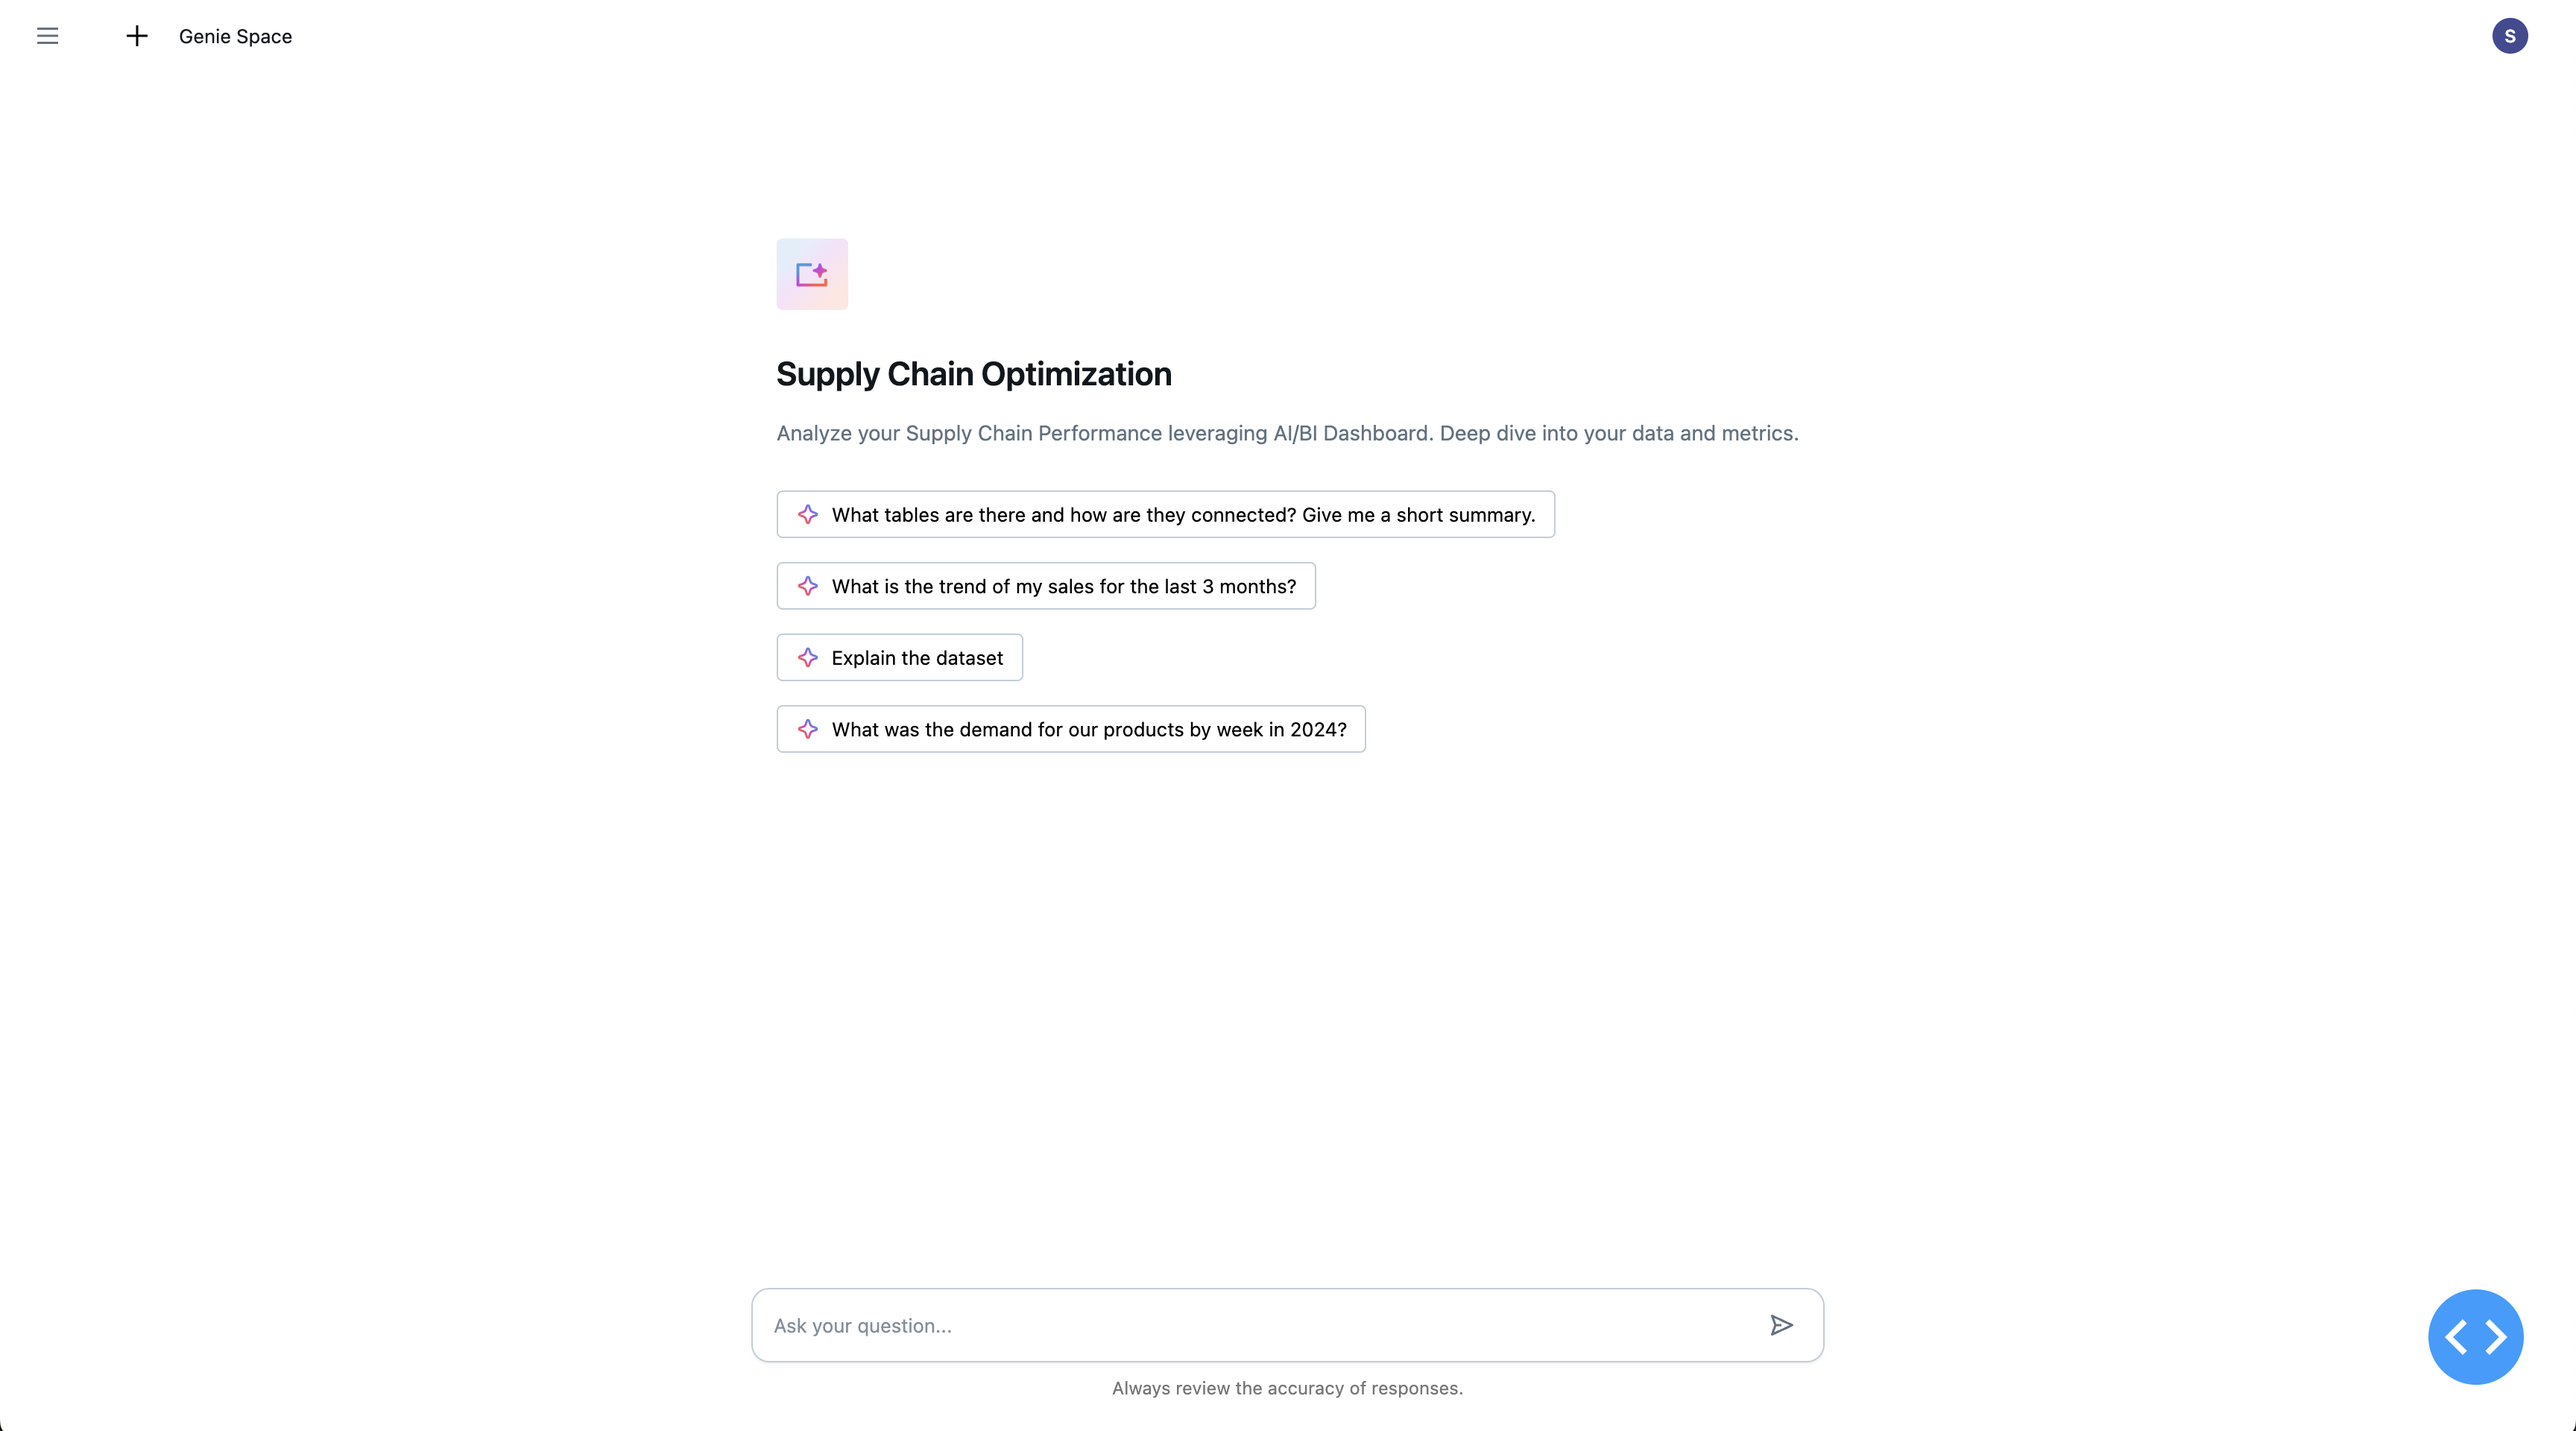
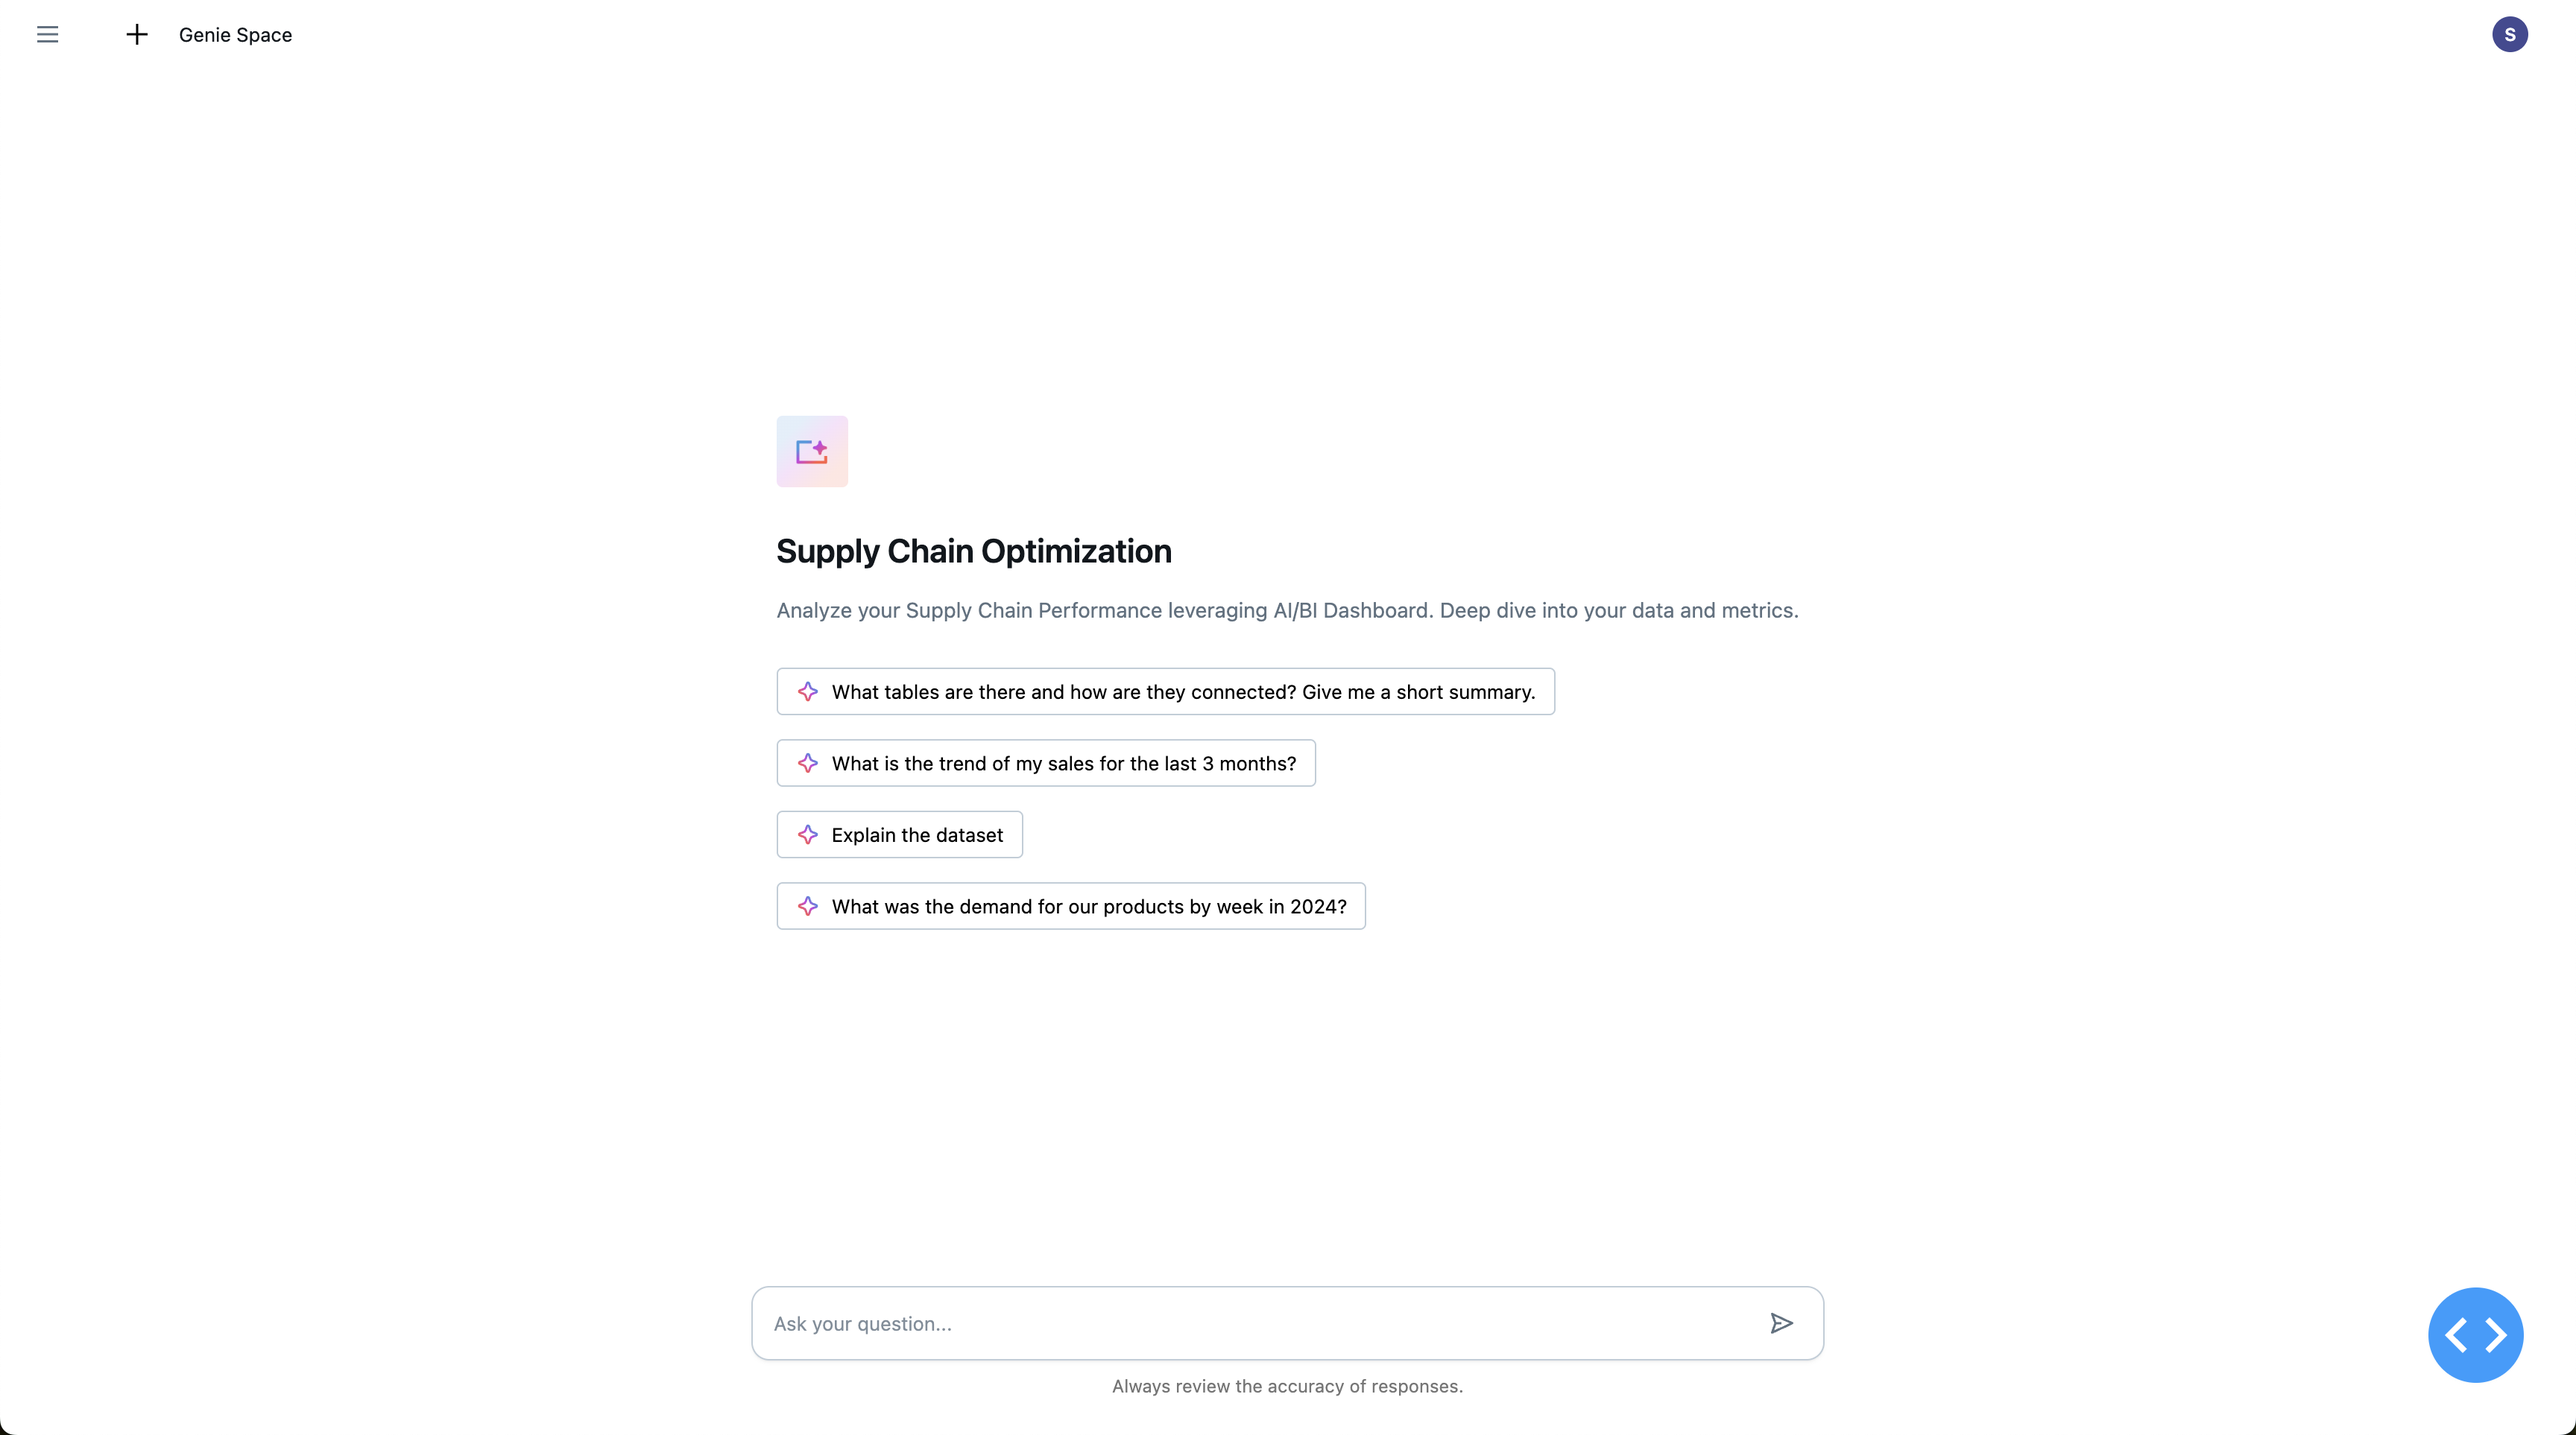
update

diff --git a/assets/style.css b/assets/style.css
@@ -264,7 +264,7 @@ body {
 .welcome-container {
     max-width: 800px;
     margin: 0 auto;
-    padding-top: 80px;
+    padding-top: 200px;
     display: flex;
     flex-direction: column;
     align-items: flex-start;

diff --git a/app.py b/app.py
@@ -4,10 +4,6 @@ import dash_bootstrap_components as dbc
 import json
 from genie_room import genie_query
 import pandas as pd
-import plotly.express as px
-import plotly.graph_objects as go
-from io import StringIO
-import pdb
 
 app = dash.Dash(
     __name__, 

diff --git a/README.md b/README.md
@@ -1,7 +1,24 @@
 # Databricks Genie API Integration Demo
 
-![Genie Conversation Chatbot Interface](./assets/genie_room0.png)
-![Genie Conversation Chatbot Interface](./assets/genie_room1.png)
+<div style="border-radius: 10px; overflow: hidden; box-shadow: 0 4px 8px rgba(0,0,0,0.1); max-width: 800px; margin: 20px 0;">
+  <div style="background: #f0f0f0; height: 25px; display: flex; align-items: center; padding: 0 10px; border-bottom: 1px solid #e0e0e0;">
+    <div style="background-color: #ff5f57; border-radius: 50%; width: 12px; height: 12px; margin-right: 6px;"></div>
+    <div style="background-color: #ffbd2e; border-radius: 50%; width: 12px; height: 12px; margin-right: 6px;"></div>
+    <div style="background-color: #28c840; border-radius: 50%; width: 12px; height: 12px;"></div>
+    <div style="margin: 0 auto; font-size: 12px; color: #555;">Genie Conversation Interface</div>
+  </div>
+  <img src="./assets/genie_room0.png" alt="Genie Conversation Chatbot Interface" style="width: 100%; display: block;">
+</div>
+
+<div style="border-radius: 10px; overflow: hidden; box-shadow: 0 4px 8px rgba(0,0,0,0.1); max-width: 800px; margin: 20px 0;">
+  <div style="background: #f0f0f0; height: 25px; display: flex; align-items: center; padding: 0 10px; border-bottom: 1px solid #e0e0e0;">
+    <div style="background-color: #ff5f57; border-radius: 50%; width: 12px; height: 12px; margin-right: 6px;"></div>
+    <div style="background-color: #ffbd2e; border-radius: 50%; width: 12px; height: 12px; margin-right: 6px;"></div>
+    <div style="background-color: #28c840; border-radius: 50%; width: 12px; height: 12px;"></div>
+    <div style="margin: 0 auto; font-size: 12px; color: #555;">Genie Data Analysis</div>
+  </div>
+  <img src="./assets/genie_room1.png" alt="Genie Conversation Chatbot Interface" style="width: 100%; display: block;">
+</div>
 
 This repository demonstrates how to integrate Databricks' AI/BI Genie Conversation APIs into custom Databricks Apps applications, allowing users to interact with their structured data using natural language.
 
@@ -25,7 +42,7 @@ The Databricks Genie Conversation APIs (in Public Preview) enable you to embed A
 ## Example Use Case
 
 This demo shows how to create a simple interface that connects to the Genie API, allowing users to:
-1. Start a conversation with a question about their supply chain data
+1. Start a conversation with a question about their domain data
 2. View generated SQL and results
 3. Ask follow-up questions that maintain context
 
